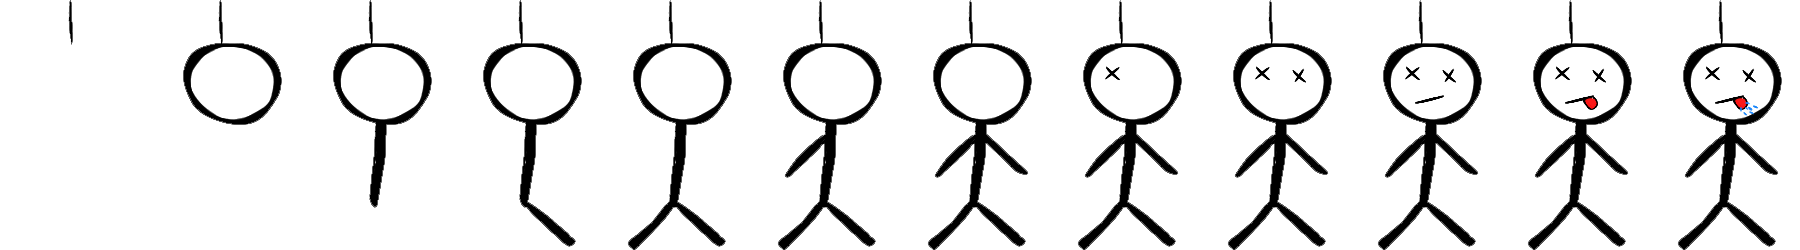
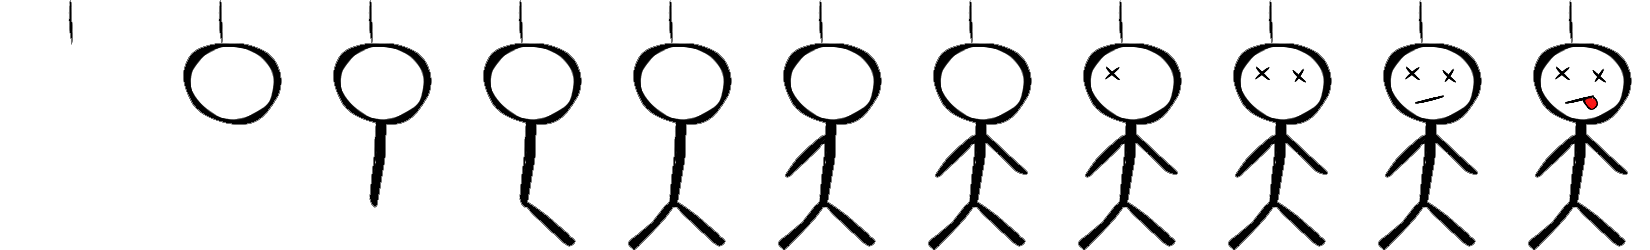
fixade till gubben lite
Tog bort sista ramen

Changed region(s): [[0.0927, 0.0, 1.0, 1.0], [0.0309, 0.0, 0.0618, 0.168]]

diff --git a/Hänga Gubbe/Hänga Gubbe/WordManager.cs b/Hänga Gubbe/Hänga Gubbe/WordManager.cs
@@ -29,7 +29,7 @@ namespace Hänga_Gubbe
 
         public WordManager()
         {
-            theHangman = new Hangman(new Vector2(250, 400), new Point(12, 0), new Point(150, 250), maxErrors);
+            theHangman = new Hangman(new Vector2(250, 400), new Point(11, 0), new Point(150, 250), maxErrors);
             //testedChars.Add(' ');
             //testedChars.Add('t');
             //testedChars.Add('b');
